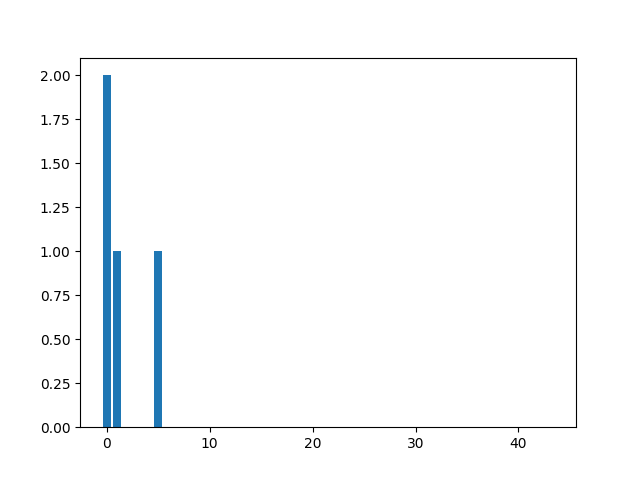
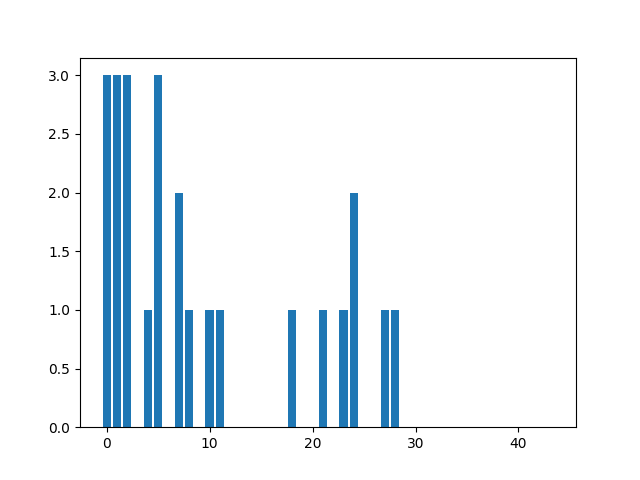
working on heuristic

diff --git a/Model/Heuristic.py b/Model/Heuristic.py
@@ -6,12 +6,15 @@ class Two_step_algorithm:
         self.input_cons = InputConstants.Inputs()
     def create(self, graph, chain, k_paths, function):
         graph.link_list[0].cap = 0
-        tmp = 0
-        node_cap = []
+        cpu = 0
+        mem = 0
+        node_cpu_cap = []
+        node_mem_cap = []
+
         for c in chain:
             for u in c.users:
                 k_path = k_paths[u]
-                path_num = self.__path_selection(graph, k_path, function)
+                path_num = self.__path_selection(graph, k_path, function, c)
                 self.__node_selection(graph, c, k_path[path_num], function)
                 # print("path num:", path_num)
                 # print("-------------------------------------------------")
@@ -19,21 +22,34 @@ class Two_step_algorithm:
             for c in chain:
             #     print(graph.node_list[v].fun)
                 for f in graph.node_list[v].fun[c.name]:
-                    tmp += graph.function_cpu_usage(f)
-                #     print("in node {}, function {} of chain {} is deployed".format(v_.name, f, c.name))
-            node_cap.append(tmp)
-            tmp = 0
-        print(node_cap)
-        plt1.bar(graph.node_name_list, node_cap)
+                    cpu += graph.function_cpu_usage(f)
+                    mem += graph.function_memory_usage(f)
+
+            #     print("in node {}, function {} of chain {} is deployed".format(v_.name, f, c.name))
+            node_cpu_cap.append(cpu)
+            node_mem_cap.append(mem)
+
+            cpu = 0
+            mem = 0
+        # print(node_cap)
+        plt1.bar(graph.node_name_list, node_cpu_cap)
         # plt.show()
-        plt1.savefig('result_Heuristic.png')
+        plt1.savefig('result_cpu_Heuristic.png')
+        plt1.close()
+        plt1.bar(graph.node_name_list, node_mem_cap)
+        # plt.show()
+        plt1.savefig('result_mem_Heuristic.png')
+        plt1.close()
+
         # print(node_cap)
 
-    def __path_selection(self, graph, k_path, function):
+    def __path_selection(self, graph, k_path, function, c):
         path_cost =[]
         link_cap = 0
-        node_cap = 0
-        nodes_cap = 0
+        node_cpu_cap = 0
+        nodes_cpu_cap = 0
+        nodes_mem_cap = 0
+        node_mem_cap = 0
         for k in k_path:
             for n in range(len(k) - 1):
                 for l in range(len(graph.link_list)):
@@ -46,26 +62,34 @@ class Two_step_algorithm:
                     if graph.node_list[m].name == n:
                         for _key in graph.node_list[m].fun.keys():
                             for f in graph.node_list[m].fun[_key]:
-                                node_cap += function[f][self.input_cons.cpu_usage]
+                                node_cpu_cap += function[f][self.input_cons.cpu_usage]
+                                node_mem_cap += function[f][self.input_cons.memory_usage]
                         break
-                        node_cap = node_cap / graph.node_list[m].cap
-                nodes_cap += node_cap
-                node_cap = 0
-            nodes_cap = nodes_cap / len(k)
-            path_cost.append(link_cap + nodes_cap)
+                        node_cpu_cap = node_cpu_cap / graph.node_list[m].cap_cpu
+                        node_mem_cap = node_mem_cap / graph.node_list[m].cap_mem
+                nodes_cpu_cap += node_cpu_cap
+                node_cpu_cap = 0
+                nodes_mem_cap += node_mem_cap
+                node_mem_cap = 0
+            nodes_cpu_cap = nodes_cpu_cap / len(k)
+            nodes_mem_cap = nodes_mem_cap / len(k)
+            path_cost.append((1 - self.input_cons.alpha) * link_cap + (self.input_cons.alpha) * (nodes_cpu_cap + nodes_mem_cap))
             link_cap = 0
-            nodes_cap = 0
+            nodes_cpu_cap = 0
+            nodes_mem_cap = 0
             idx = path_cost.index(min(path_cost))
             for n in range(len(k_path[idx])-1):
                 for l in range(len(graph.link_list)):
                     if graph.link_list[l].name == (k_path[idx][n], k_path[idx][n+1]):
-                        graph.link_list[l].cap += 10
+                        graph.link_list[l].cap += c.tra
                         break
         return  idx
     def __node_selection(self, graph, chain, path, functions):
-        node_cap_list = []
-        node_cap = 0
-        nodes_cap = 0
+        node_cap_cpu_list = []
+        node_cpu_cap = 0
+        nodes_cpu_cap = 0
+        node_mem_cap = 0
+        node_cap_mem_list = []
         f_num = 0
         # print(path)
         for n in path:
@@ -75,13 +99,16 @@ class Two_step_algorithm:
                     # print("ok")
                     for _key in graph.node_list[m].fun.keys():
                         for f in graph.node_list[m].fun[_key]:
-                            node_cap += functions[f][self.input_cons.cpu_usage]
+                            node_cpu_cap += functions[f][self.input_cons.cpu_usage]
+                            node_mem_cap += functions[f][self.input_cons.memory_usage]
 
                 # node_cap = node_cap
-            node_cap_list.append(node_cap)
-            nodes_cap += node_cap
-            node_cap = 0
-            nodes_cap = nodes_cap / len(path)
+            node_cap_cpu_list.append(node_cpu_cap)
+            node_cap_mem_list.append(node_mem_cap)
+
+            # nodes_cap += node_cap
+            # node_cap = 0
+            # nodes_cap = nodes_cap / len(path)
             # print(node_cap_list)
 
         # print(node_cap_list)
@@ -119,17 +146,28 @@ class Two_step_algorithm:
         # Constraints
         ##########################################
         # 1st constraint
-        model.balance_cons = ConstraintList()
+        model.balance_cpu_cons = ConstraintList()
         for v_num, v in enumerate(model.V):
-            model.balance_cons.add(sum([model.a[v, f] *
+            model.balance_cpu_cons.add(sum([model.a[v, f] *
                                         model.nf[f] *
-                                        1
+                                        chain.tra
                                         for f in model.F
                                         ]) +
-                                   node_cap_list[v_num]
+                                   node_cap_cpu_list[v_num]
                                    <=
                                    model.t)
 
+        # 1st constraint
+        model.balance_mem_cons = ConstraintList()
+        for v_num, v in enumerate(model.V):
+            model.balance_mem_cons.add(sum([model.a[v, f] *
+                                        model.mf[f] *
+                                        chain.tra
+                                        for f in model.F
+                                        ]) +
+                                   node_cap_mem_list[v_num]
+                                   <=
+                                   model.t)
         model.satisfy_req_2_cons = ConstraintList()
         for f in model.F:
             model.satisfy_req_2_cons.add(sum([
@@ -157,8 +195,11 @@ class Two_step_algorithm:
         results = opt.solve(model)
         # model.seq_cons.pprint()
         # model.a.pprint()
-        tmp = 0
-        node_cap1 = []
+        mem = 0
+        cpu = 0
+        node_cpu_cap = []
+        node_mem_cap = []
+
         # for v in range(len(graph.node_list)):
             # print(graph.node_list[v].fun)
         for v in model.V:
@@ -170,11 +211,14 @@ class Two_step_algorithm:
                 if value(model.a[v, f]):
                     # print("ok")
                     # print(value(model.a[v, c, i, s, d]))
-                    tmp += value(model.a[v, f])
+                    # mem += value(model.a[v, f]) * model.mf[f] * chain.tra
+                    # cpu += value(model.a[v, f]) * model.nf[f] * chain.tra
                     # graph.node_list[v_num].fun[chain.name].append(chain.fun[f])
                     graph.function_placement(v_num, chain.name, chain.fun[f])
-            node_cap1.append(tmp)
-            tmp = 0
+            # node_mem_cap.append(mem)
+            # node_cpu_cap.append(cpu)
+            # cpu = 0
+            # mem = 0
         # print(node_cap1)
         # for n in range(len(path)):
         #     for m in range(len(graph.node_list)):

diff --git a/Model/Models.py b/Model/Models.py
@@ -92,7 +92,7 @@ class ILP_Model:
         model.phi = {}
         for c in model.C:
             for (s, d) in model.R[c]:
-                for p in range(len(model.k_path[(s, d)])):
+                for p in model.p:
                     for l in range(len(graph.link_list)):
                         flag = 0
                         for n in range(len(model.k_path[(s, d)][p]) - 1):
@@ -221,7 +221,7 @@ class ILP_Model:
         #                                  chains[c].tra
         #                                  for c in model.C
         #                                  for (s, d) in model.R[c]
-        #                                  for p in range(len(model.k_path[(s, d)]))
+        #                                  for p in model.p
         #                                  ]) <= graph.link_list[l].ban
         #                                )
         # 4th constraint

diff --git a/Main/main.py b/Main/main.py
@@ -35,10 +35,10 @@ chains = _chain.read_chains(input_cons.chains_path + input_cons.chains_name,
 k_path = graph.k_path(input_cons.k_path_num)
 print(k_path[('1', '4')][0])
 # print(graph.link_list[0].ban)
-# algorithm = Two_step_algorithm()
-# start = time.time()
-# algorithm.create(graph, chains, k_path, functions)
-# end = time.time()
+algorithm = Two_step_algorithm()
+start = time.time()
+algorithm.create(graph, chains, k_path, functions)
+end = time.time()
 # print("Heuristic time", end - start)
 # print(len(functions))
 # print(k_path["1", "3"])
@@ -56,7 +56,7 @@ ILP = ILP_Model()
 print(graph.node_list[0].fun)
 graph.make_empty_nodes()
 start = time.time()
-ILP.create(graph, functions, chains, k_path)
+# ILP.create(graph, functions, chains, k_path)
 end = time.time()
 print("ILP run time = ", end - start)
 # CG = CG_Model()

diff --git a/Given/InputConstants.py b/Given/InputConstants.py
@@ -41,5 +41,5 @@ class Inputs:
     min_node_cap = 500
     td = 3
 
-    k_path_num = 1
-    alpha = 0.9
+    k_path_num = 3
+    alpha = 0.5
